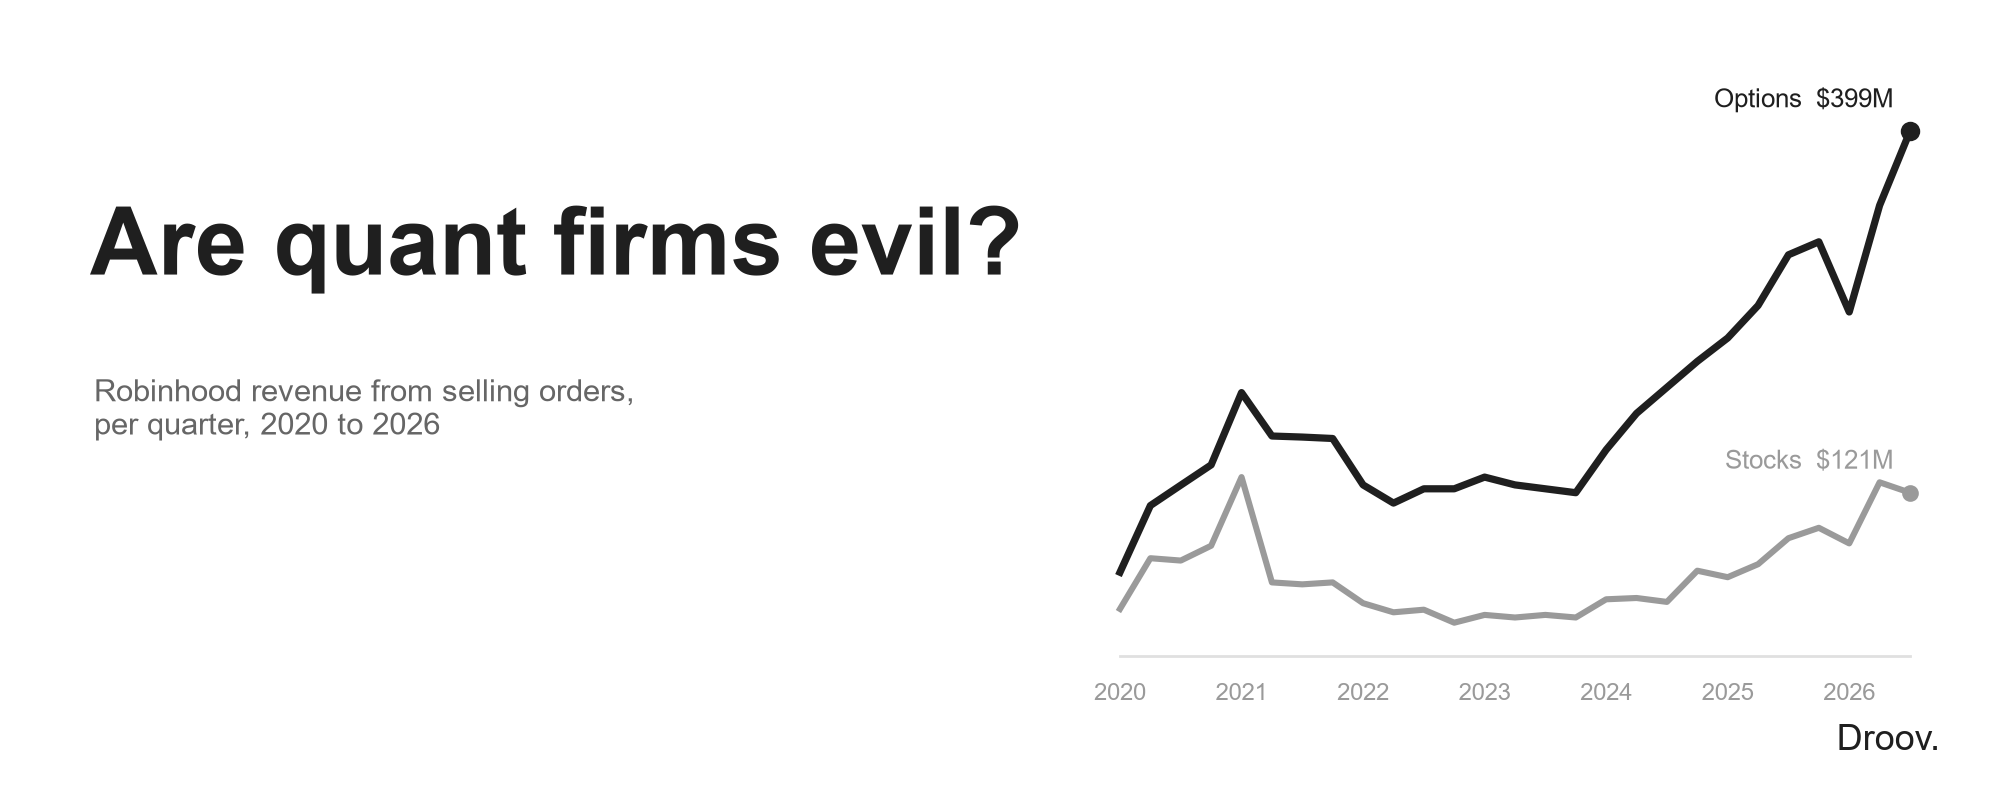
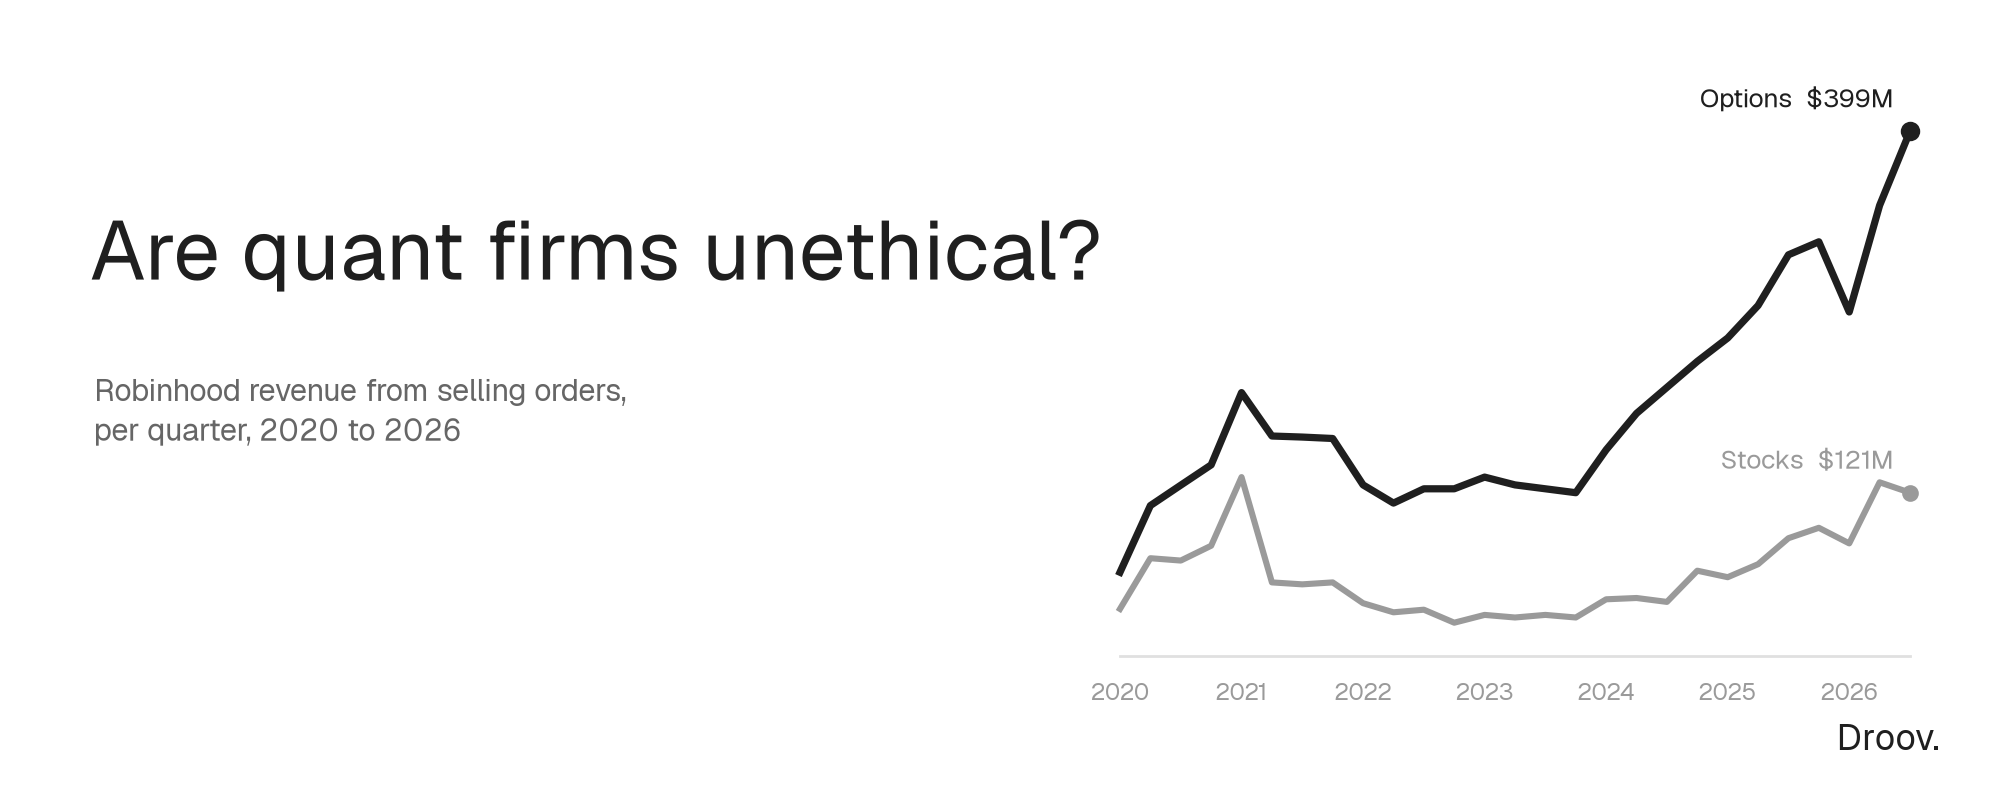
Sync quant firms preview with current X draft

diff --git a/public/preview/are-quant-firms-evil/index.html b/public/preview/are-quant-firms-evil/index.html
@@ -5,13 +5,13 @@
 <meta charset="utf-8"/>
 <meta content="width=device-width, initial-scale=1" name="viewport"/>
 <meta content="noindex, nofollow" name="robots"/>
-<title>Are quant firms evil? — Dhruv Gupta</title>
-<meta content="What are quant firms, how do they make money, and is it ethical." name="description"/>
+<title>Are quant firms unethical? — Dhruv Gupta</title>
+<meta content="What are quant firms, how do they make money, and is the way they make money moral?" name="description"/>
 <meta content="article" property="og:type"/>
-<meta content="Are quant firms evil?" property="og:title"/>
-<meta content="What are quant firms, how do they make money, and is it ethical." property="og:description"/>
+<meta content="Are quant firms unethical?" property="og:title"/>
+<meta content="What are quant firms, how do they make money, and is the way they make money moral?" property="og:description"/>
 <meta content="https://droov.info/preview/are-quant-firms-evil" property="og:url"/>
-<meta content="https://droov.info/preview/are-quant-firms-evil/assets/header.png" property="og:image"/>
+<meta content="https://droov.info/preview/are-quant-firms-evil/assets/header.png?v=2" property="og:image"/>
 <meta content="summary_large_image" name="twitter:card"/>
 <meta content="#f6f6f5" name="theme-color"/>
 <link href="/favicon.ico" rel="icon"/>
@@ -19,40 +19,54 @@
     @font-face{font-family:Geist;src:url('/preview/are-quant-firms-evil/assets/geist.ttf') format('truetype');font-display:swap}
     *{box-sizing:border-box}html{color-scheme:light}body{margin:0;background:#f6f6f5;color:#242424;font-family:Geist,Arial,sans-serif;-webkit-font-smoothing:antialiased}a{color:inherit;text-decoration-thickness:1px;text-underline-offset:4px}a:hover{color:#666}nav{max-width:1100px;margin:auto;padding:30px 32px;display:flex;justify-content:space-between;align-items:center;font-size:14px}nav a{text-decoration:none}.badge{border:1px solid #d5d5d1;border-radius:7px;padding:6px 10px;color:#777;font-size:12px}header{max-width:800px;margin:58px auto 38px;padding:0 32px}h1{font-weight:500;font-size:clamp(38px,6vw,64px);line-height:1.07;letter-spacing:-.055em;margin:0 0 25px}.subtitle{font-size:21px;line-height:1.5;color:#676767;margin:0 0 24px}.byline{font-size:14px;color:#777}.hero{max-width:800px;margin:0 auto 54px;padding:0 32px}.hero img{width:100%;height:auto;border-radius:12px;display:block}article{max-width:800px;margin:auto;padding:0 32px 70px;font-size:19px;line-height:1.8;letter-spacing:-.015em}p{margin:0 0 25px}hr{border:0;border-top:1px solid #dcdcd8;margin:46px 0}ol{padding-left:26px;margin:12px 0 28px}li{padding-left:7px;margin:12px 0}figure{margin:36px 0}figure img,figure video{display:block;width:100%;height:auto;border-radius:10px;background:#e9e9e6}figure a{display:block}footer{border-top:1px solid #dcdcd8;padding-top:25px;margin-top:46px;font-size:14px;color:#777;display:flex;justify-content:space-between;gap:20px}a:focus-visible,video:focus-visible{outline:2px solid #333;outline-offset:5px}@media(max-width:1050px){figure{margin:32px 0}}@media(max-width:600px){nav{padding:22px}header{margin:32px auto 28px;padding:0 22px}.subtitle{font-size:18px}.hero{padding:0 22px;margin-bottom:32px}article{font-size:17px;line-height:1.75;padding:0 22px 45px}figure{margin:28px 0}footer{font-size:12px}hr{margin:34px 0}}
   
-article{overflow-wrap:anywhere}figcaption{font-size:14px;color:#686868;margin-top:10px;text-align:center}
+article{overflow-wrap:anywhere}figcaption{font-size:14px;color:#686868;margin-top:10px;text-align:center}article ul{padding-left:1.4em;margin:20px 0}article li{margin:10px 0}
 </style>
 </head>
 <body>
 <nav><a href="/">Dhruv Gupta</a><span class="badge">Draft preview</span></nav>
 <main>
 <header>
-<h1>Are quant firms evil?</h1>
-<p class="subtitle">What are quant firms, how do they make money, and is it ethical.</p>
+<h1>Are quant firms unethical?</h1>
+<p class="subtitle">What are quant firms, how do they make money, and is the way they make money moral?</p>
 <div class="byline"><a href="https://x.com/droovg">Dhruv Gupta</a></div>
 </header>
-<div class="hero"><img alt="Are quant firms evil? Robinhood's revenue from selling orders" fetchpriority="high" src="/preview/are-quant-firms-evil/assets/header.png"/></div>
-<article><hr/>
-<p>Market makers/wholesalers like Jane Street, Citadel Securities, SIG, and IMC make money by selling assets like stocks or options for marginally more than they're worth, and buying them for marginally less than they're worth (classic buy low sell high).</p>
-<p>Every time you try to buy Apple for $5.37 on Robinhood, it's not going to the NASDAQ or NYSE, it's going to a wholesaler, who will sell you that AAPL for $5.38, while the exchanges might have been trading at $5.385.</p>
-<figure><video aria-label="An options order on Robinhood routed to Citadel Securities and an exchange auction" autoplay="" controls="" loop="" muted="" playsinline="" preload="metadata"><source src="/preview/are-quant-firms-evil/assets/order-route.mp4" type="video/mp4"/></video><figcaption>Your options order on Robinhood gets sent to Citadel Securities who then brings it to an exchange</figcaption></figure>
-<p>Not only do these firms do you the great service of giving you a good deal, they also pay Robinhood (or Charles Schwabb) some % for letting them trade against you. Why be so generous?</p>
-<p>Quants are terrified of "<strong>adverserial selection</strong>." The amount of money they make per trade is near 0; their massive profits come from doing millions of trades on both sides of markets per minute.</p>
+<div class="hero"><img alt="Are quant firms unethical?" fetchpriority="high" src="/preview/are-quant-firms-evil/assets/header.png?v=2"/></div>
+<article><p>Market makers/wholesalers like Jane Street, Citadel Securities, SIG, and IMC make money by selling assets like stocks or options for marginally more than they're worth, and buying them for marginally less than they're worth (classic buy low, sell high).</p>
+<p>Every time you try to buy Apple on Robinhood, it's not going to the NASDAQ or NYSE; it's going to a wholesaler, who will sell you that AAPL for slightly cheaper than you would've gotten it on an exchange.</p>
+<figure><video aria-label="An options order on Robinhood routed to Citadel Securities and an exchange auction" autoplay="" controls="" loop="" muted="" playsinline="" preload="metadata"><source src="/preview/are-quant-firms-evil/assets/order-route.mp4" type="video/mp4"/></video><figcaption>Your options order on Robinhood gets sent to Citadel Securities, which then brings it to an exchange</figcaption></figure>
+<p>Not only do these firms do you the great service of giving you a good deal, they also pay Robinhood (or Charles Schwabb) some fee for letting them trade against you. Why be so generous?</p>
+<p>Quants are terrified of "<strong>adverse selection</strong>." The amount of money they make per trade is near 0; their massive profits come from doing millions of trades on both sides of markets per minute.</p>
 <p>However, imagine the case of a sell-off. If someone saddles IMC with millions of dollars of a stock minutes before a bad news story causes the price to collapse, IMC will have a very hard time selling off their position without incurring massive losses.</p>
 <figure><video aria-label="Market makers trading against dumb money and smart money" autoplay="" controls="" loop="" muted="" playsinline="" preload="metadata"><source src="/preview/are-quant-firms-evil/assets/adverse-selection.mp4" type="video/mp4"/></video></figure>
-<p>A single trade against smart money (hedge funds, competitors) can wipe out the profits from hunderds of trades against dumb money (most retail investors, institutions like pension funds). Therefore, quant firms are willing to pay a premium to trade against dumb money.</p>
+<p>A single trade against smart money (hedge funds, competitors) can wipe out the profits from hundreds of trades against dumb money (retail investors, institutions like pension funds). Therefore, quant firms are willing to pay a premium to trade against dumb money.</p>
 <figure><a href="/preview/are-quant-firms-evil/assets/robinhood-revenue-mix.png"><img alt="Robinhood's 2025 revenue by source" loading="lazy" src="/preview/are-quant-firms-evil/assets/robinhood-revenue-mix.png"/></a></figure>
-<p>In fact, much of what might be considered "strategies" or "alpha" in market making comes down to understanding if the trader opposite the firm is smart money or dumb money.</p>
-<p>Of course, this is a massive oversimplification; the best firms don't simply market make but also are willing to hold positions and take on risk and thus need to have understandings of the fair price of assets, beliefs on how assets will move over short and long time horizons, and novel approaches to trading those assets.</p>
-<p>However, if you strip it down to just providing liquidity on exchanges, a money-making heuristic is "does the guy I'm trading against know what he's doing."</p>
+<p>In fact, much of what might be considered "strategies" or "alpha" in market making comes down to understanding whether the trader opposite the firm is smart money or dumb money.</p>
+<p>Of course, this is a massive oversimplification; the best firms don't just try to keep a neutral book when they market make. They are willing to hold positions and take on risk and thus need to have an understanding of the fair price of assets, beliefs on how assets will move over short and long time horizons, and novel approaches to trading those assets.</p>
+<p>However, if you strip it down to just providing liquidity on exchanges, a heuristic of "does the guy I'm trading against know what he's doing" would tend to make money.</p>
 <figure><video aria-label="Market makers tighten quotes for retail flow and widen them for informed flow" autoplay="" controls="" loop="" muted="" playsinline="" preload="metadata"><source src="/preview/are-quant-firms-evil/assets/mm-sharks.mp4" type="video/mp4"/></video></figure>
 <hr/>
 <p>Now that we have some understanding of quants, let's chat about options trading.</p>
-<p>I won't dive too deeply into the mechanics, but it is important to understand that options trades are <em>negative sum</em>: for every options trade between trader A and trader B, B will lose as much as A gained, and both will give up some % toll to the market makers.</p>
-<p>This is opposed to investing in stocks which is <em>positive sum</em> since companies can create net new value, causing their equity to appreciate without any other equity depreciating.</p>
-<p>As a consequence of this + the sophistication needed to trade options intelligently, the Indian government found that ~90% of options traders lose money, as opposed to ~5% of stock traders (comparisons over 1 year vs 10 year time horizon and India vs US so take with a grain of salt).</p>
+<p>I won't dive too deeply into the mechanics, but it is important to understand that options trading is <em>negative sum</em>: for every options trade between trader A and trader B, B will lose as much as A gains, and both will lose some % to the market makers.</p>
+<p>This is opposed to investing in stocks, which is <em>positive sum</em> since companies can create net new value, causing their equity to appreciate without any other equity depreciating.</p>
+<p>As a consequence of this + the sophistication needed to trade options intelligently, the Indian market regulator found that ~90% of options traders lose money, as opposed to ~5% of stock investors (comparisons over 1-year vs 10-year time horizon and India vs US so take with a grain of salt).</p>
 <figure><video aria-label="Where 1,000 stock investors and options traders end up" autoplay="" controls="" loop="" muted="" playsinline="" preload="metadata"><source src="/preview/are-quant-firms-evil/assets/negsum-1-outcomes.mp4" type="video/mp4"/></video></figure>
-<p>It is concerning, therefore, that ~45% of the volume of options volume in the US is retail, and that the options markets have been growing at a rapider pace than the stock markets.</p>
-<figure><a href="/preview/are-quant-firms-evil/assets/retail-share-and-growth.png"><img alt="Retail share of options and stock volume, and growth since 2019" loading="lazy" src="/preview/are-quant-firms-evil/assets/retail-share-and-growth.png"/></a></figure><footer><a href="/">droov.info</a><span>Draft · Shared for feedback</span></footer></article>
+<p>It is concerning, therefore, that ~45% of options volume in the US is retail, and that the options markets have been growing at a quicker pace than the stock markets.</p>
+<figure><a href="/preview/are-quant-firms-evil/assets/retail-share-and-growth.png"><img alt="Retail share of options and stock volume, and growth since 2019" loading="lazy" src="/preview/are-quant-firms-evil/assets/retail-share-and-growth.png"/></a></figure>
+<hr/>
+<p>Your opinion on whether or not quant firms are a net negative will come down to the question: <em>is it ethical to profit off of making a bad thing marginally less bad?</em></p>
+<p>Compare it to the cigarette industry. If someone made tons of money selling a tool that made smokers 0.05% less likely to get cancer, would they be heroes or profiteers?</p>
+<p>Quant firms would argue that</p>
+<ul><li>It is not their responsibility to regulate; if the government does not want to protect retail investors, they cannot be blamed</li><li>They offer everyone a better deal</li><li>Options are a legitimate product that have real-world uses for managing risk and generating income, beyond their use as speculatory gambling</li><li>They are simply filling demand from brokers, and if they didn't, someone else would in a less competetive environment at worse prices</li></ul>
+<p>All of these are fair and valid pushbacks. You could argue that</p>
+<ul><li>Something being legal doesn't imply you should interact with it; several options wholesalers have chosen not to market make in prediction markets (for various reasons)</li><li>Better deals could incentivize more participation</li><li>While options do have important use cases, retail traders <a href="https://lbsresearch.london.edu/id/eprint/2827/1/The%20Journal%20of%20Finance%20-%202023%20-%20BRYZGALOVA%20-%20Retail%20Trading%20in%20Options%20and%20the%20Rise%20of%20the%20Big%20Three%20Wholesalers.pdf">usually go for</a> cheap, short-dated contracts, lose money on average, and join trading frenzies</li><li>Firms pay billions in PFOF for access to that order flow, so they're not exactly passive in the system, and have <a href="https://www.sec.gov/comments/s7-31-22/s73122-20164211-334052.pdf">lobbied</a> to keep wholesaling as permissive at is</li></ul>
+<hr/>
+<p>Personally, I think it is</p>
+<ul><li>A good thing that retail crowds <em>have</em> the ability to participate in derivative markets</li><li>The regulator's responsibility to make those markets <em>harder </em>to access</li><li>Important that market makers provide liquidity especially in options markets, where there are ~150 options contracts open at any given time on each underlying stock</li></ul>
+<p>I also think that</p>
+<ul><li>The people who work at these firms are intelligent and know that retail traders will likely lose money on the trades they facilitate</li><li>These firms pay billions of dollars every year for the opportunity to target these retail traders</li><li>These firms exist to enrich the people who work at these firms above all else (and are quite open about that fact as well) and that will always trump any moral dilemmas they have in the long run</li></ul>
+<hr/>
+<p>A bag is a bag, and I can imagine much worse ways to get a bag than wholesaling options. However, just because someone will make money off of providing liquidity to retail traders doesn't mean that you have to be the one raking in the profits.</p>
+<p>A disclaimer that I worked on the options desk at Jane Street this summer; they did not like me very much, I did not like them very much, and that probably influences my judgment in some ways. However, my co-interns will tell you I have also been running this debate with full-timers at the firm since the start of the summer, and regardless of how placating their contentions have been, I've never heard a convincing argument of why Jane Street needs to wholesale options beyond the fact that it contributes heavily to their top line.</p><footer><a href="/">droov.info</a><span>Draft · Shared for feedback</span></footer></article>
 </main>
 <script>if(window.matchMedia('(prefers-reduced-motion: reduce)').matches){document.querySelectorAll('video').forEach(video=>{video.autoplay=false;video.pause()})}</script>
 </body>
